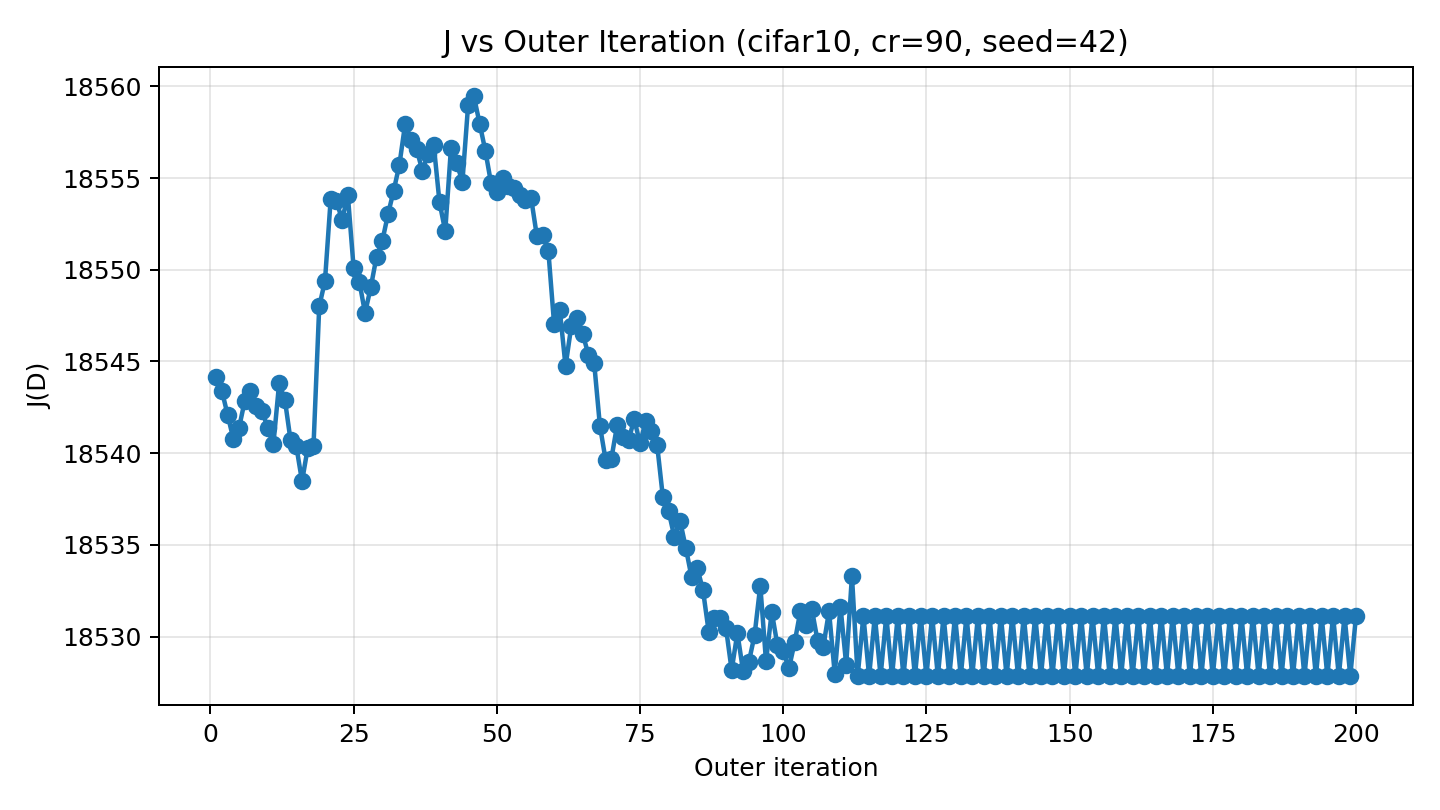
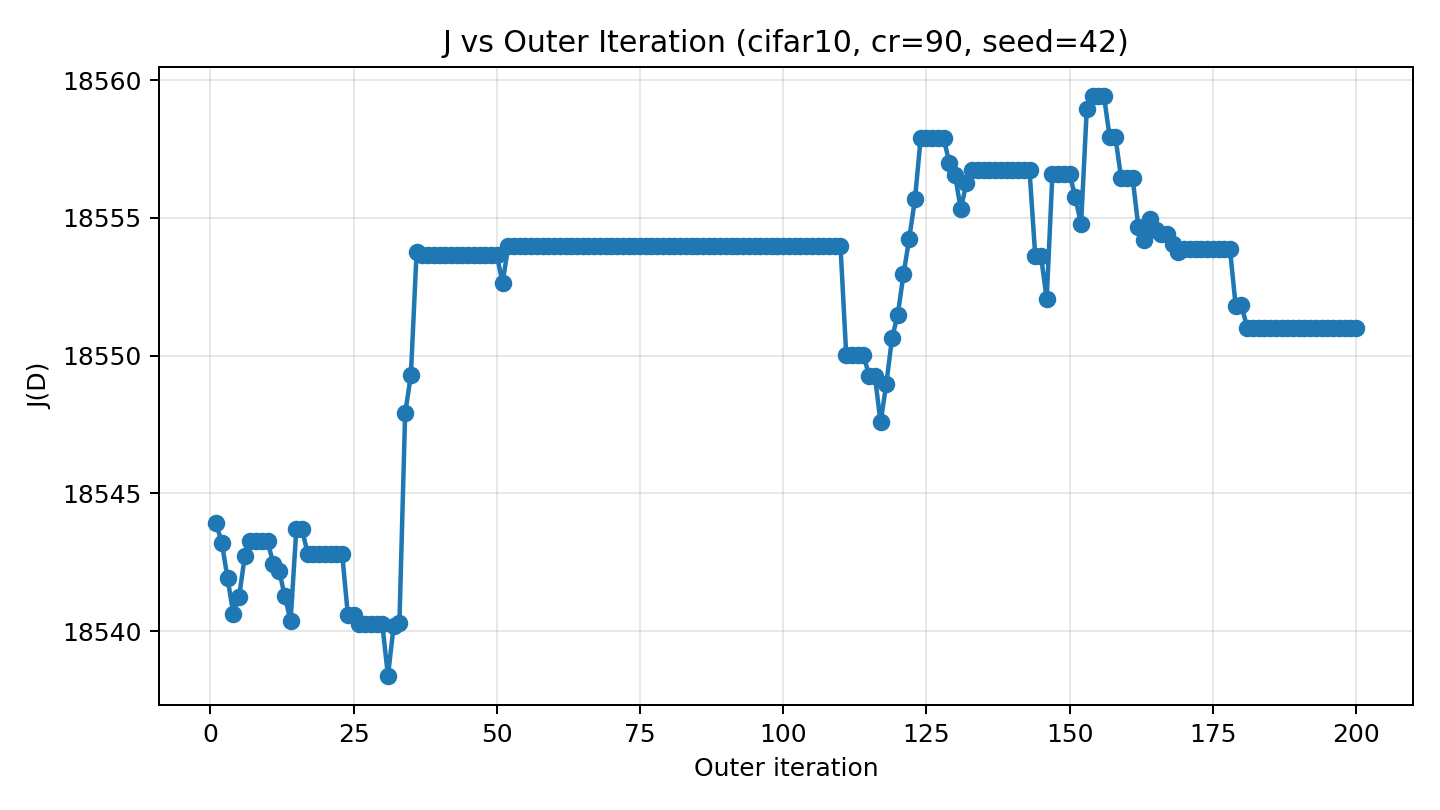
xxx

diff --git a/calculate_my_mask.py b/calculate_my_mask.py
@@ -1,7 +1,9 @@
 from __future__ import annotations
 
 import argparse
+from collections import deque
 import json
+import random
 import sys
 import time
 from pathlib import Path
@@ -265,10 +267,13 @@ def select_group_mask(
     cut_ratio: int,
     device: torch.device,
     progress_desc: str | None = None,
-    outer_iters: int = 200,
-    inner_steps: int = 5,
+    outer_iters: int = 150,
+    inner_steps: int = 10,
     candidate_topk: int = 1500,
     remove_topk: int = 600,
+    tabu_L: int = 5,
+    replace_rate: float = 0.3,
+    use_soft_accept: bool = True,
 ) -> tuple[np.ndarray, dict[int, int], dict[str, object]]:
     if cut_ratio <= 0 or cut_ratio > 100:
         raise ValueError("cr 必须在 1-100 之间。")
@@ -321,6 +326,8 @@ def select_group_mask(
     selected_mask[warm_top] = 1
 
     m_c = np.bincount(labels_np[selected_mask.astype(bool)], minlength=num_classes).astype(np.int64)
+    recently_removed: deque[int] = deque(maxlen=max(0, int(tabu_L)))
+    recently_added: deque[int] = deque(maxlen=max(0, int(tabu_L)))
 
     def _omega(cur_counts: np.ndarray) -> float:
         q = cur_counts.astype(np.float64) / float(m)
@@ -342,7 +349,37 @@ def select_group_mask(
     total_swaps = 0
     accepted_any_outer = False
     outer_j_history: list[float] = []
+    no_improve_steps = 0
+
+    def _apply_random_replacement(
+        candidates: np.ndarray,
+        full_pool: np.ndarray,
+        blocked: np.ndarray,
+    ) -> np.ndarray:
+        if replace_rate <= 0 or candidates.size == 0:
+            return candidates
+        replace_cnt = int(replace_rate * candidates.size)
+        if replace_cnt <= 0:
+            return candidates
+        pool = full_pool[~np.isin(full_pool, candidates)]
+        if blocked.size > 0:
+            pool = pool[~np.isin(pool, blocked)]
+        if pool.size == 0:
+            return candidates
+        replace_cnt = min(replace_cnt, pool.size, candidates.size)
+        if replace_cnt <= 0:
+            return candidates
+
+        replace_positions = np.random.choice(candidates.size, size=replace_cnt, replace=False)
+        replace_values = np.random.choice(pool, size=replace_cnt, replace=False)
+        mixed = candidates.copy()
+        mixed[replace_positions] = replace_values
+        return mixed
+
     for outer_idx in outer_iterator:
+        prev_mask = selected_mask.copy()
+        prev_counts = m_c.copy()
+
         div_result = div_metric.score_dataset_dynamic(
             div_loader,
             adapter=image_adapter,
@@ -365,7 +402,9 @@ def select_group_mask(
             + weights["div"] * div_scores
             + weights["dds"] * dds_scores
         )
+        prev_j = float(np.sum(s_ref[prev_mask.astype(bool)])) - lambda_cls * _omega(prev_counts)
         outer_swaps = 0
+        outer_j_sum = 0.0
         for inner_idx in range(inner_steps):
             selected_idx = np.flatnonzero(selected_mask == 1)
             unselected_idx = np.flatnonzero(selected_mask == 0)
@@ -385,42 +424,135 @@ def select_group_mask(
             low_sa = selected_idx[np.argpartition(sa_scores_np[selected_idx], k_r - 1)[:k_r]]
             R = np.unique(np.concatenate([low_ref, low_sa]))
 
-            improved = False
-            for j in A:
-                cj = labels_np[j]
-                delta_s = s_ref[j] - s_ref[R]
-                ci_arr = labels_np[R]
-                delta_omega = np.zeros_like(delta_s, dtype=np.float64)
-                neq_mask = ci_arr != cj
-                if np.any(neq_mask):
-                    ci_sub = ci_arr[neq_mask]
-                    before_ci = (m_c[ci_sub] / m - p_c[ci_sub]) ** 2
-                    before_cj = (m_c[cj] / m - p_c[cj]) ** 2
-                    after_ci = ((m_c[ci_sub] - 1) / m - p_c[ci_sub]) ** 2
-                    after_cj = ((m_c[cj] + 1) / m - p_c[cj]) ** 2
-                    delta_omega[neq_mask] = (after_ci + after_cj) - (before_ci + before_cj)
+            raw_A = A.copy()
+            raw_R = R.copy()
+            removed_arr = np.fromiter(recently_removed, dtype=np.int64)
+            added_arr = np.fromiter(recently_added, dtype=np.int64)
+            if removed_arr.size > 0:
+                A = A[~np.isin(A, removed_arr)]
+            if added_arr.size > 0:
+                R = R[~np.isin(R, added_arr)]
+            if A.size == 0:
+                A = raw_A
+            if R.size == 0:
+                R = raw_R
 
-                delta_j = delta_s - lambda_cls * delta_omega
-                best_pos = int(np.argmax(delta_j))
-                if delta_j[best_pos] > 1e-12:
-                    i = int(R[best_pos])
-                    ci = labels_np[i]
-                    selected_mask[i] = 0
-                    selected_mask[j] = 1
-                    if ci != cj:
-                        m_c[ci] -= 1
-                        m_c[cj] += 1
-                    outer_swaps += 1
-                    total_swaps += 1
-                    improved = True
+            retried_with_replace = False
+            blocked_for_A = removed_arr
+
+            while True:
+                scan_A = A
+                if retried_with_replace:
+                    scan_A = _apply_random_replacement(A, unselected_idx, blocked_for_A)
+                    scan_A = scan_A[np.argsort(-s_ref[scan_A])]
+
+                improved = False
+                for j in scan_A:
+                    cj = labels_np[j]
+                    delta_s = s_ref[j] - s_ref[R]
+                    ci_arr = labels_np[R]
+                    delta_omega = np.zeros_like(delta_s, dtype=np.float64)
+                    neq_mask = ci_arr != cj
+                    if np.any(neq_mask):
+                        ci_sub = ci_arr[neq_mask]
+                        before_ci = (m_c[ci_sub] / m - p_c[ci_sub]) ** 2
+                        before_cj = (m_c[cj] / m - p_c[cj]) ** 2
+                        after_ci = ((m_c[ci_sub] - 1) / m - p_c[ci_sub]) ** 2
+                        after_cj = ((m_c[cj] + 1) / m - p_c[cj]) ** 2
+                        delta_omega[neq_mask] = (after_ci + after_cj) - (before_ci + before_cj)
+
+                    delta_j = delta_s - lambda_cls * delta_omega
+                    best_pos = int(np.argmax(delta_j))
+                    if delta_j[best_pos] > 1e-12:
+                        i = int(R[best_pos])
+                        ci = labels_np[i]
+                        selected_mask[i] = 0
+                        selected_mask[j] = 1
+                        if ci != cj:
+                            m_c[ci] -= 1
+                            m_c[cj] += 1
+                        outer_swaps += 1
+                        total_swaps += 1
+                        outer_j_sum += float(delta_j[best_pos])
+                        recently_removed.append(i)
+                        recently_added.append(int(j))
+                        improved = True
+                        break
+
+                if improved:
+                    no_improve_steps = 0
                     break
+                if (not retried_with_replace) and replace_rate > 0.0:
+                    retried_with_replace = True
+                    continue
+                no_improve_steps += 1
+                break
 
             if not improved:
                 break
 
-        accepted_any_outer = accepted_any_outer or (outer_swaps > 0)
-        s_val, omega_val, j_val = _metrics(selected_mask, s_ref)
+        new_div_result = div_metric.score_dataset_dynamic(
+            div_loader,
+            adapter=image_adapter,
+            selected_mask=selected_mask,
+            image_features=div_features,
+            labels=labels_t,
+        )
+        new_dds_result = dds_metric.score_dataset_dynamic(
+            dds_loader,
+            adapter=image_adapter,
+            selected_mask=selected_mask,
+            image_features=dds_features,
+            labels=labels_t,
+        )
+        new_div_scores = np.asarray(new_div_result.scores, dtype=np.float32)
+        new_dds_scores = np.asarray(new_dds_result.scores, dtype=np.float32)
+        new_s_ref = (
+            weights["sa"] * sa_scores_np
+            + weights["div"] * new_div_scores
+            + weights["dds"] * new_dds_scores
+        )
+        s_val, omega_val, j_val = _metrics(selected_mask, new_s_ref)
+        delta_j_outer = float(j_val - prev_j)
+        accepted_outer = True
+        accept_prob: float | None = None
+        if delta_j_outer < 0.0 and use_soft_accept:
+            t = outer_idx + 1
+            x = outer_j_sum / float(t * t) + delta_j_outer
+            if x >= 50.0:
+                accept_prob = 1.0
+            elif x <= -50.0:
+                accept_prob = 0.0
+            else:
+                accept_prob = float(np.exp(x))
+            accept_prob = min(1.0, max(0.0, accept_prob))
+            accepted_outer = random.random() < accept_prob
+            if not accepted_outer:
+                selected_mask = prev_mask
+                m_c = prev_counts
+                s_val = float(np.sum(new_s_ref[prev_mask.astype(bool)]))
+                omega_val = _omega(prev_counts)
+                j_val = prev_j
+                recently_removed.clear()
+                recently_added.clear()
+
+        accepted_any_outer = accepted_any_outer or (outer_swaps > 0 and accepted_outer)
         outer_j_history.append(float(j_val))
+        tqdm.write(
+            "[Group] outer={}/{} deltaJ={:.6f} J_sum={:.6f} accept_prob={} accepted={} "
+            "tabu_sizes=({},{}) replace_rate={:.2f} no_improve_steps={}".format(
+                outer_idx + 1,
+                outer_iters,
+                delta_j_outer,
+                outer_j_sum,
+                "-" if accept_prob is None else f"{accept_prob:.6f}",
+                accepted_outer,
+                len(recently_removed),
+                len(recently_added),
+                replace_rate,
+                no_improve_steps,
+            )
+        )
         outer_iterator.set_postfix(
             outer=f"{outer_idx + 1}/{outer_iters}",
             swaps=str(outer_swaps),
@@ -428,6 +560,8 @@ def select_group_mask(
             target=f"{ratio_target:.4f}",
             omega=f"{omega_val:.6f}",
             J=f"{j_val:.2f}",
+            tabu_L=str(tabu_L),
+            rr=f"{replace_rate:.2f}",
         )
         if outer_swaps == 0:
             break
@@ -476,6 +610,9 @@ def select_group_mask(
         "total_swaps": int(total_swaps),
         "improved": bool(accepted_any_outer),
         "outer_j_history": outer_j_history,
+        "tabu_L": int(tabu_L),
+        "replace_rate": float(replace_rate),
+        "use_soft_accept": bool(use_soft_accept),
     }
 
     return final_mask, selected_by_class, stats
